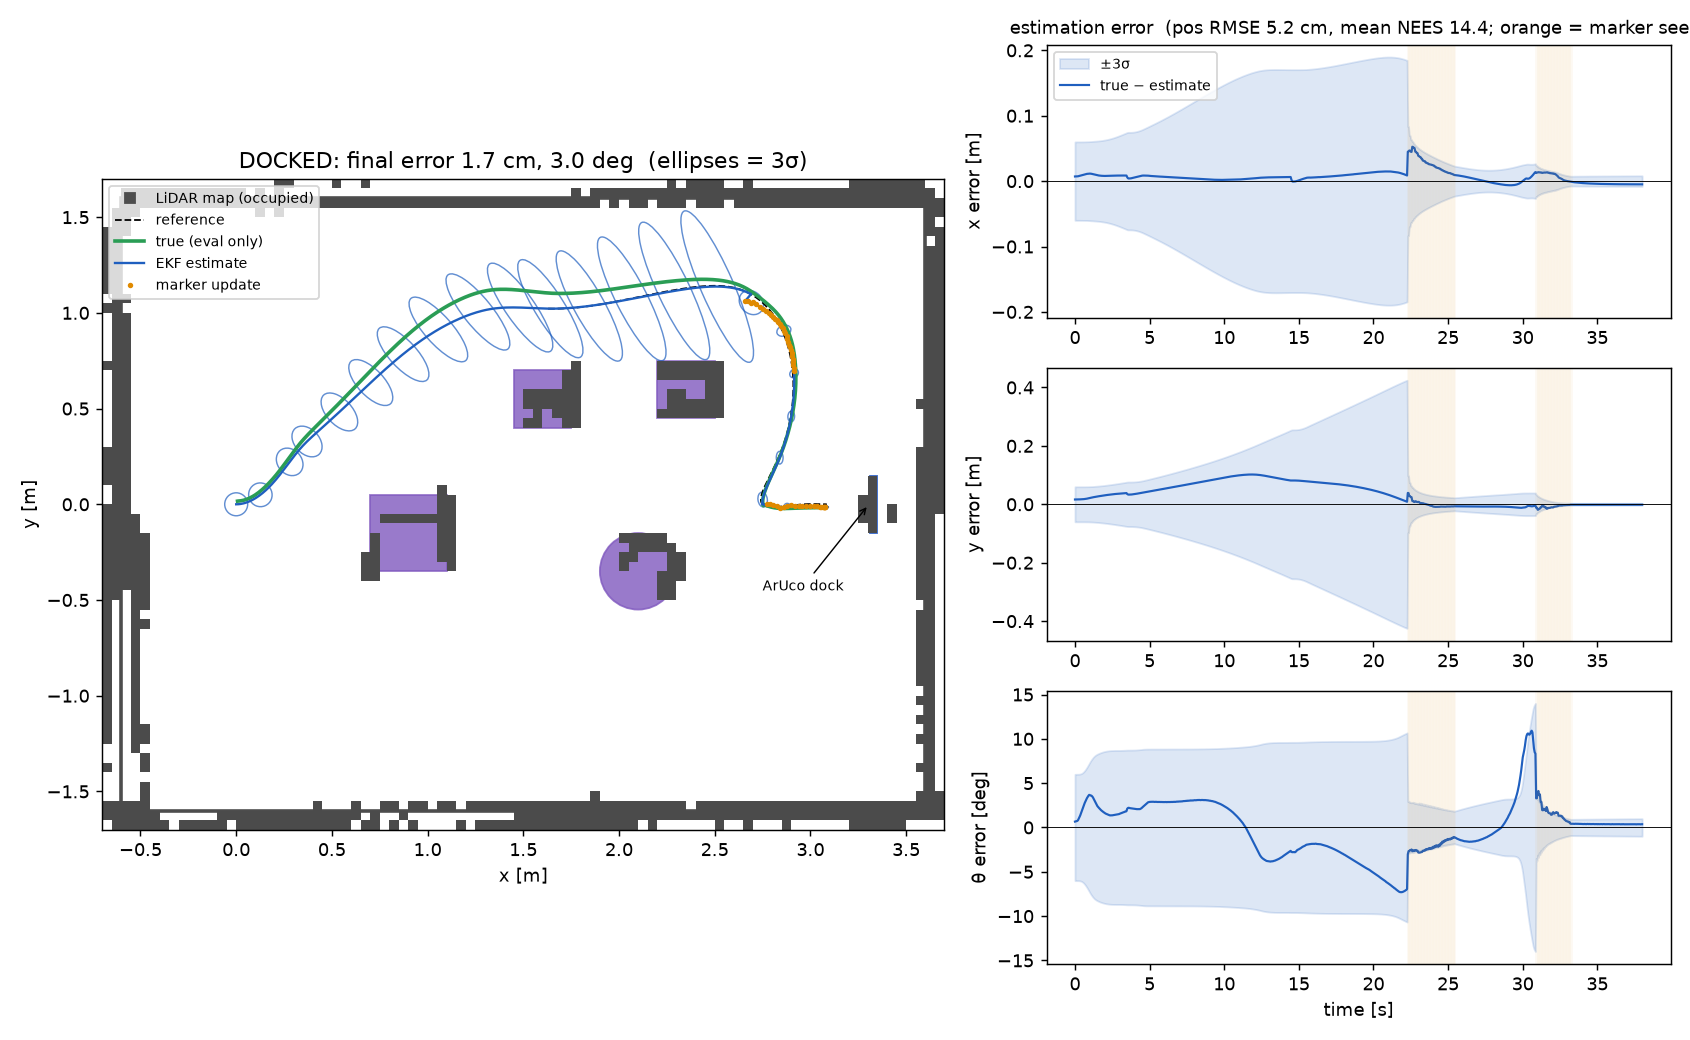
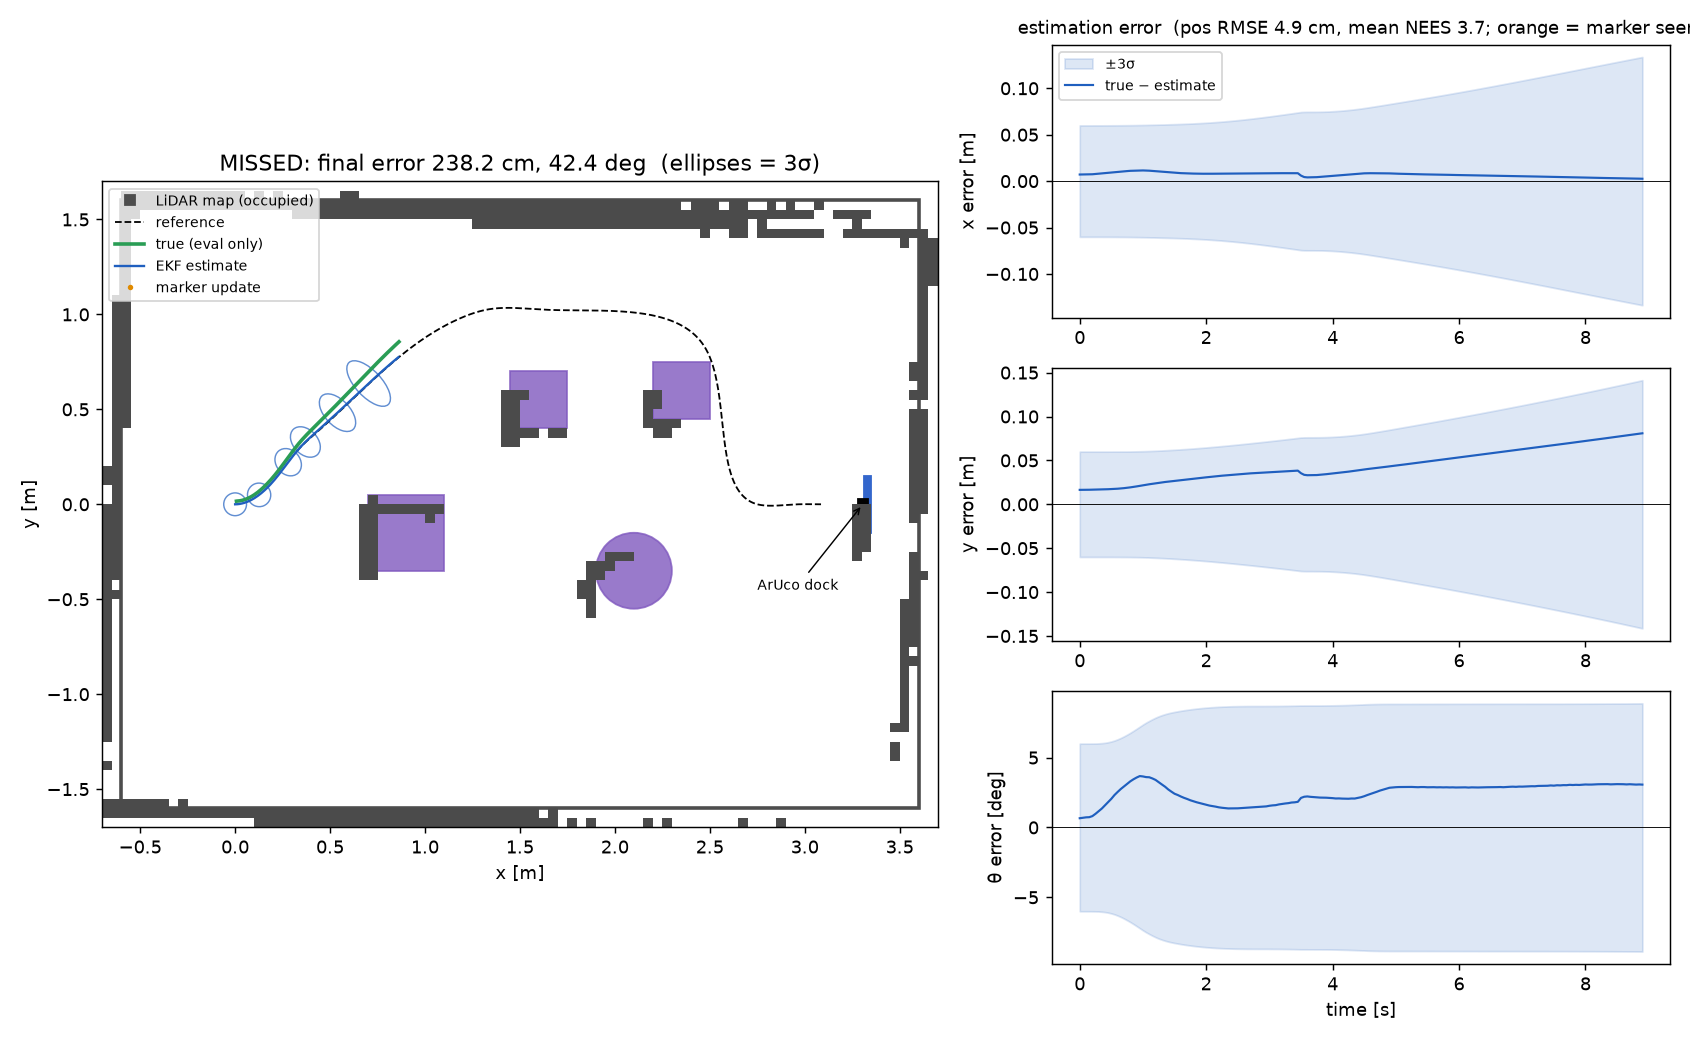
adding wait to run code

diff --git a/tb3dock/run.py b/tb3dock/run.py
@@ -12,10 +12,39 @@ from .navigation import Navigator
 from . import groundtruth   # EVALUATION ONLY
 
 
+def _wait_for_enter(view, refresh):
+    """Keep the viewer (and its panels) refreshing until Enter is pressed or the window closes."""
+    import threading
+    done = threading.Event()
+
+    def _wait():
+        try:
+            input()
+        except EOFError:
+            pass
+        done.set()
+
+    threading.Thread(target=_wait, daemon=True).start()
+    while view.is_running() and not done.is_set():
+        refresh()
+        view.sync()
+        time.sleep(0.1)
+
+
 def run_trial(seed=0, start_noise=True, push=None, wheel_radius_err=0.0,
               meas_model=C.MEAS_MODEL, video=None, viewer=False, settle_time=5.0, verbose=True,
-              nav_mode=C.NAV_MODE, random_obstacles=False):
-    
+              nav_mode=C.NAV_MODE, random_obstacles=False, speed=0.5, wait_start=True):
+    """
+    seed             random seed (start pose, sensor noise)
+    start_noise      randomise the TRUE start pose around the nominal one (P0_STD)
+    push             (time_s, force_x, force_y, duration_s) external shove, or None
+    wheel_radius_err real right wheel radius error, e.g. 0.02 = 2% (odometry is not told)
+    video            path to an .mp4 to record, or None
+    nav_mode         "lidar": plan the route from the LiDAR map; "fixed": hand-placed waypoints
+    random_obstacles move the obstacles to random positions (the robot is not told)
+    speed            viewer only: playback speed (1.0 = real time, 0.5 = half speed)
+    wait_start       viewer only: wait for Enter before the robot starts moving
+    """
     rng = np.random.default_rng(seed)
     true_start = C.START_POSE + (rng.normal(0, C.P0_STD) if start_noise else 0.0)
     sim = Sim(true_start, wheel_radius_err,
@@ -45,11 +74,25 @@ def run_trial(seed=0, start_noise=True, push=None, wheel_radius_err=0.0,
     if viewer:
         import mujoco.viewer
         view = mujoco.viewer.launch_passive(sim.m, sim.d)
-        print("MuJoCo viewer opened: the robot drives in real time (~30 s).")
+        speed_txt = "real time" if speed == 1.0 else f"{speed:g}x speed"
+        print(f"MuJoCo viewer opened ({speed_txt}).")
         from .live import LiveOverlay
         overlay = LiveOverlay(view, cam, path)
         overlay.grid = nav.grid if nav else None
         overlay.obstacles = sim.obstacles
+        if wait_start:
+            # show the start state (first LiDAR map, planned route, camera view) and wait.
+            # The camera image is rendered directly, NOT measured, so the random numbers
+            # (and therefore the run) are identical to a run without the viewer.
+            cam.renderer.update_scene(sim.d, camera="cam")
+            cam.last_image = cam.renderer.render().copy()
+            L0 = {"t": [0.0], "x_est": [ekf.x.copy()], "P": [ekf.P.copy()],
+                  "x_true": [ekf.x.copy()], "accepted": [False]}   # no truth needed before the start
+            print("Press Enter in this terminal to start the robot.")
+            _wait_for_enter(view, lambda: overlay.update(L0))
+            if not view.is_running():
+                view.close(); cam.renderer.close()
+                raise SystemExit("viewer closed before the run started")
 
     n_steps = int(C.NAV_MAX_TIME / C.DT)
     last_plan = 0.0
@@ -57,7 +100,7 @@ def run_trial(seed=0, start_noise=True, push=None, wheel_radius_err=0.0,
     L = {k: [] for k in ["t", "x_est", "P", "x_true", "ref", "u", "e_ctrl",
                          "meas", "accepted", "nis", "safety", "front"]}
 
-    t_wall0 = time.perf_counter()
+    t_wall0 = time.perf_counter()      # starts after the Enter press
     for k in range(n_steps):
         t = k * C.DT
 
@@ -121,18 +164,16 @@ def run_trial(seed=0, start_noise=True, push=None, wheel_radius_err=0.0,
             if k % 2 == 0:
                 overlay.update(L, scan)
             view.sync()
-            # run at real-time speed so you can watch it
-            lag = (k + 1) * C.DT - (time.perf_counter() - t_wall0)
+            # run at real-time speed (or slower / faster with speed) so you can watch it
+            lag = (k + 1) * C.DT / speed - (time.perf_counter() - t_wall0)
             if lag > 0:
                 time.sleep(lag)
 
     if view is not None:
         # keep the window open until you are done looking (the viewer draws on its own thread)
         print("Run finished. Press Enter in this terminal to close the viewer and see the results.")
-        try:
-            input()
-        except EOFError:
-            pass
+        # keep the panels updating (so they follow window or side-panel resizes) until Enter
+        _wait_for_enter(view, lambda: overlay.update(L, scan))
         overlay.close()
         view.close()
 

diff --git a/run_demo.py b/run_demo.py
@@ -24,6 +24,10 @@ if __name__ == "__main__":
                     help="lidar: plan the route from the LiDAR map; fixed: hand-placed waypoints")
     ap.add_argument("--video", action="store_true")
     ap.add_argument("--viewer", action="store_true")
+    ap.add_argument("--speed", type=float, default=0.5,
+                    help="viewer playback speed: 0.5 = half speed (default), 1 = real time")
+    ap.add_argument("--no-wait", action="store_true",
+                    help="viewer: start driving straight away instead of waiting for Enter")
     ap.add_argument("--random", action="store_true",
                     help="randomise start pose, sensor noise, obstacle positions, wheel size error and a kick")
     a = ap.parse_args()
@@ -46,7 +50,7 @@ if __name__ == "__main__":
     log, m = run_trial(seed=a.seed, start_noise=not a.no_start_noise, push=a.push,
                        wheel_radius_err=a.wheel_err, meas_model=a.meas, nav_mode=a.nav, random_obstacles=a.random_obstacles,
                        video=os.path.join(out, "demo.mp4") if a.video else None,
-                       viewer=a.viewer)
+                       viewer=a.viewer, speed=a.speed, wait_start=not a.no_wait)
     summary_figure(log, m, os.path.join(out, "summary.png"))
     with open(os.path.join(out, "metrics.json"), "w") as f:
         json.dump({"args": vars(a), **m}, f, indent=2)
